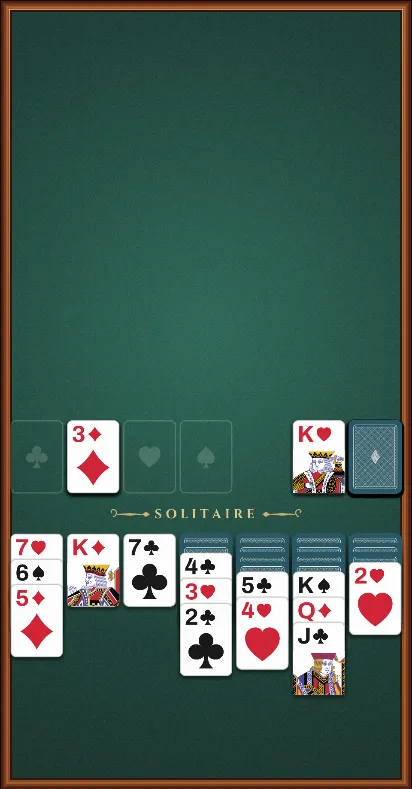
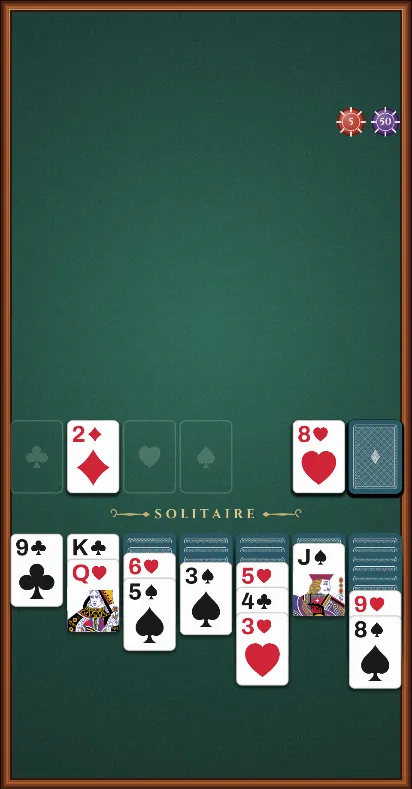
Render the score as a stack of casino chips on the felt
The Score HUD stat was a number in a bar above the board; now it's a
stack of chips sitting on the felt itself, the way a real table keeps
score. Five denominations - 1, 5, 10, 50, 100 - each with its own
colour (white, red, blue, purple, and black-with-gold for the $100,
borrowing the one colour this app otherwise reserves for "selected",
because a $100 chip earns it the same way a real one does). The score
is broken into the fewest chips that add up to it (greedy change-making,
optimal here since each denomination divides the next evenly), and
drawn as one column per denomination in play, highest value innermost,
same-denomination chips stacked with a slight vertical offset so the
ones underneath peek out.

Chip faces are procedurally generated onto oversampled canvas textures
(no shipped image assets), following the same convention table.ts
already uses for the felt and rail: a domed radial-gradient body lit
from the same upper-left the table's own lamp favours, a dark rim with
eight moulded edge spots, an inlay ring, and the denomination baked in
with the same Cinzel display font the on-felt title uses.

Only Klondike and Tri Peaks track a score (confirmed by grepping every
*-table.ts for a `score:` field - Aces Up counts pairs cleared, not
points), so the stack is driven generically off GameView.score being
defined rather than special-cased per game. It sits in the one band of
felt between the top row and the tableau that's never dealt onto,
[…]

diff --git a/src/app/game/chip.ts b/src/app/game/chip.ts
@@ -1,0 +1,164 @@
+import Phaser from 'phaser';
+import { DISPLAY_FONT, DISPLAY_WEIGHT } from './fonts';
+
+// A score, in chips, the way a table actually keeps one - not a number in
+// the bar but a stack sitting on the felt, the way the felt itself is
+// generated rather than shipped as an image (see table.ts). Five
+// denominations, each its own colour, the same convention a real casino
+// uses so a stack can be read at a glance without counting: white, red,
+// blue and purple climbing in value, and the highest one in black with a
+// gold edge - the one colour this app otherwise reserves for "this is
+// selected", borrowed here because a $100 chip earns it the same way a
+// real one does.
+export const CHIP_VALUES: readonly number[] = [100, 50, 10, 5, 1];
+
+interface ChipPalette {
+  readonly body: string;
+  readonly edge: string;
+  readonly text: string;
+}
+
+const CHIP_PALETTES: Record<number, ChipPalette> = {
+  100: { body: '#1c1a1d', edge: '#ffd166', text: '#ffd166' },
+  50: { body: '#5b3a86', edge: '#f2ede2', text: '#f2ede2' },
+  10: { body: '#2857a6', edge: '#f2ede2', text: '#f2ede2' },
+  5: { body: '#b83a2e', edge: '#f2ede2', text: '#f2ede2' },
+  1: { body: '#f2ede2', edge: '#8a7a5c', text: '#3a3128' },
+};
+
+// Logical size, the same units a card's width is measured in - about
+// half a card across, so a whole stack of them still reads as something
+// sitting beside the game rather than competing with it.
+const CHIP_DIAMETER = 34;
+// Oversampled the same way the felt's nap texture is: generated once, at a
+// fixed high resolution, then scaled down per instance with
+// setDisplaySize - crisp at any device pixel ratio without regenerating a
+// texture per screen.
+const CHIP_OVERSAMPLE = 4;
+// How far a chip sits above the one under it in a stack - not the chip's
+// own thickness so much as how much of the one below has to peek out for
+// the stack to read as a stack rather than one chip with a shadow.
+const CHIP_RISE = 3.5;
+// Horizontal room between one denomination's column and the next.
+const STACK_GAP = CHIP_DIAMETER + 6;
+
+function chipTextureKey(value: number): string {
+  return `chip-${value}`;
+}
+
+// Simple RGB lerp toward black or white, for the shading below - there's no
+// need for anything more perceptually careful than this at chip size.
+function mix(hex: string, target: number, amount: number): string {
+  const n = parseInt(hex.slice(1), 16);
+  const r = (n >> 16) & 255;
+  const g = (n >> 8) & 255;
+  const b = n & 255;
+  const t = (c: number) => Math.round(c + (target - c) * amount);
+  return `rgb(${t(r)}, ${t(g)}, ${t(b)})`;
+}
+const lighten = (hex: string, amount: number) => mix(hex, 255, amount);
+const darken = (hex: string, amount: number) => mix(hex, 0, amount);
+
+function drawChipTexture(scene: Phaser.Scene, value: number): void {
+  const key = chipTextureKey(value);
+  if (scene.textures.exists(key)) return;
+  const size = CHIP_DIAMETER * CHIP_OVERSAMPLE;
+  const texture = scene.textures.createCanvas(key, size, size);
+  if (!texture) return;
+  const ctx = texture.getContext();
+  const r = size / 2;
+  const { body, edge, text } = CHIP_PALETTES[value];
+
+  // The body: a dome rather than a flat disc, lit from the same
+  // upper-left the felt's own lamp favours (see table.ts's LIGHT_CENTER).
+  const dome = ctx.createRadialGradient(r * 0.62, r * 0.5, r * 0.1, r, r, r);
+  dome.addColorStop(0, lighten(body, 0.28));
+  dome.addColorStop(0.72, body);
+  dome.addColorStop(1, darken(body, 0.38));
+  ctx.fillStyle = dome;
+  ctx.beginPath();
+  ctx.arc(r, r, r - 2, 0, Math.PI * 2);
+  ctx.fill();
+
+  // The rim: a dark groove first, then the edge spots a real chip's mould
+  // leaves round its circumference - eight rather than more, which at this
+  // size read as spots rather than a second ring.
+  ctx.lineWidth = size * 0.05;
+  ctx.strokeStyle = darken(body, 0.5);
+  ctx.beginPath();
+  ctx.arc(r, r, r - ctx.lineWidth, 0, Math.PI * 2);
+  ctx.stroke();
+
+  const spots = 8;
+  ctx.fillStyle = edge;
+  for (let i = 0; i < spots; i++) {
+    const angle = (i / spots) * Math.PI * 2;
+    ctx.save();
+    ctx.translate(r + Math.cos(angle) * r * 0.84, r + Math.sin(angle) * r * 0.84);
+    ctx.rotate(angle + Math.PI / 2);
+    ctx.fillRect(-size * 0.028, -size * 0.09, size * 0.056, size * 0.18);
+    ctx.restore();
+  }
+
+  // The inlay: a thin ring setting the denomination apart from the rim,
+  // the way a real chip's printed face is inset from its edge spots.
+  ctx.strokeStyle = edge;
+  ctx.lineWidth = size * 0.022;
+  ctx.beginPath();
+  ctx.arc(r, r, r * 0.6, 0, Math.PI * 2);
+  ctx.stroke();
+
+  ctx.fillStyle = text;
+  ctx.font = `${DISPLAY_WEIGHT} ${size * 0.34}px ${DISPLAY_FONT}`;
+  ctx.textAlign = 'center';
+  ctx.textBaseline = 'middle';
+  ctx.fillText(String(value), r, r + size * 0.02);
+
+  texture.refresh();
+}
+
+/** Generates all five chip textures, once - safe to call every scene start. */
+export function ensureChipTextures(scene: Phaser.Scene): void {
+  for (const value of CHIP_VALUES) drawChipTexture(scene, value);
+}
+
+// A score broken into the fewest chips that add up to it - the greedy
+// change-making a cashier does, which is optimal here because every
+// denomination divides the one above it evenly (100/50/10/5/1). Rounded
+// and floored first: a score is always a whole number by the time this is
+// called, but nothing about the type says so.
+export function chipCounts(score: number): { value: number; count: number }[] {
+  let remaining = Math.max(0, Math.floor(score));
+  const counts: { value: number; count: number }[] = [];
+  for (const value of CHIP_VALUES) {
+    const count = Math.floor(remaining / value);
+    if (count > 0) counts.push({ value, count });
+    remaining -= count * value;
+  }
+  return counts;
+}
+
+// Draws the whole tray: one column per denomination in play, highest value
+// innermost (closest to the anchor) so the stack a player glances at first
+// is the one carrying the most weight, the rest fanning out to its left.
+// Returns what it created so the scene can destroy it next time the score
+// changes - a stack is rebuilt from scratch on every update rather than
+// diffed, the same choice restack() makes for the cards themselves.
+export function drawChipStack(
+  scene: Phaser.Scene,
+  anchorX: number,
+  anchorY: number,
+  score: number,
+): Phaser.GameObjects.Image[] {
+  const objects: Phaser.GameObjects.Image[] = [];
+  chipCounts(score).forEach((stack, columnIndex) => {
+    const x = anchorX - columnIndex * STACK_GAP;
+    for (let i = 0; i < stack.count; i++) {
+      const y = anchorY - i * CHIP_RISE;
+      objects.push(
+        scene.add.image(x, y, chipTextureKey(stack.value)).setDisplaySize(CHIP_DIAMETER, CHIP_DIAMETER),
+      );
+    }
+  });
+  return objects;
+}

diff --git a/src/app/game/solitaire-scene.ts b/src/app/game/solitaire-scene.ts
@@ -12,6 +12,7 @@ import {
   maxBoardDrop,
 } from './config';
 import { Card } from './deck';
+import { drawChipStack, ensureChipTextures } from './chip';
 import { DeckTheme } from './deck-theme';
 import { defineStack } from 'phaser-card-engine';
 import { DeckStyle } from './deck-style';
@@ -212,6 +213,9 @@ export class SolitaireScene extends Phaser.Scene {
   // on top of the printing rather than under it.
   private markings!: Phaser.GameObjects.Container;
   private cardLayer!: Phaser.GameObjects.Container;
+  // The score, in chips. Rebuilt whole on every publish() rather than
+  // diffed - see renderChips.
+  private chipLayer!: Phaser.GameObjects.Container;
 
   // One sprite per card, kept for the life of the deal and moved rather than
   // rebuilt. Keyed by card id, which is why a card's id has to be stable.
@@ -292,10 +296,13 @@ export class SolitaireScene extends Phaser.Scene {
 
     drawTableSurface(this, this.pixelRatio);
 
+    ensureChipTextures(this);
+
     this.root = this.add.container(0, 0).setScale(this.pixelRatio);
     this.markings = this.add.container(0, 0);
     this.cardLayer = this.add.container(0, 0);
-    this.root.add([this.markings, this.cardLayer]);
+    this.chipLayer = this.add.container(0, 0);
+    this.root.add([this.markings, this.cardLayer, this.chipLayer]);
 
     this.printLayout();
 
@@ -744,9 +751,11 @@ export class SolitaireScene extends Phaser.Scene {
   }
 
   private publish(): void {
+    const view = this.table.view(this.session.state);
+    this.renderChips(view.score);
     this.report.changed({
       // Whatever this game keeps: a score and a stock, or free cells.
-      ...this.table.view(this.session.state),
+      ...view,
       moves: this.session.moves,
       showsMoves: this.table.showsMoves,
       canUndo: this.session.canUndo,
@@ -754,6 +763,22 @@ export class SolitaireScene extends Phaser.Scene {
       stuck: this.session.stuck,
       won: this.session.won,
     });
+  }
+
+  // The score, in chips, sitting on the felt in the one place every game
+  // leaves empty: the band between the top row and the tableau (see
+  // TABLEAU_TOP_Y's own note - it's where the game's name is printed, and
+  // nowhere else), to the right of that lettering rather than under it.
+  // Rebuilt from scratch each time rather than diffed, the same call
+  // restack() makes about the cards themselves - a handful of image sprites
+  // is cheap enough that keeping score's own diff logic in sync with
+  // chip.ts's would cost more than it saved.
+  private renderChips(score: number | undefined): void {
+    this.chipLayer.removeAll(true);
+    if (score === undefined) return;
+    const anchorX = this.width - BOARD_MARGIN - 21;
+    const anchorY = TABLEAU_TOP_Y - 20;
+    this.chipLayer.add(drawChipStack(this, anchorX, anchorY, score));
   }
 
   // --- what the player does -----------------------------------------------

diff --git a/src/app/pages/play/play.html b/src/app/pages/play/play.html
@@ -16,7 +16,13 @@
     </div>
     <div class="hud__stats">
       @if (view().score !== undefined) {
-        <div class="hud__stat">
+        <!-- Visually hidden rather than gone: the number is now a stack of
+             chips on the felt itself (see solitaire-scene.ts's renderChips),
+             which says nothing to a screen reader a stack of images can't
+             carry. The reading kept here rather than moved into the board's
+             own aria-label, which describes the game once rather than on
+             every score change. -->
+        <div class="hud__stat visually-hidden">
           <span class="hud__label">Score</span>
           <span class="hud__value">{{ view().score }}</span>
         </div>
